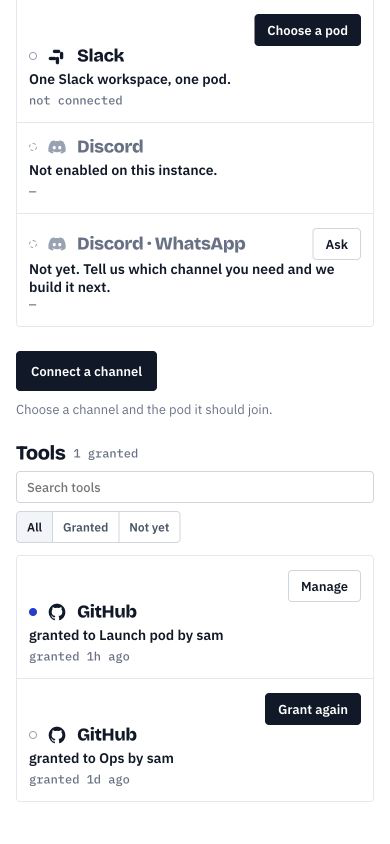
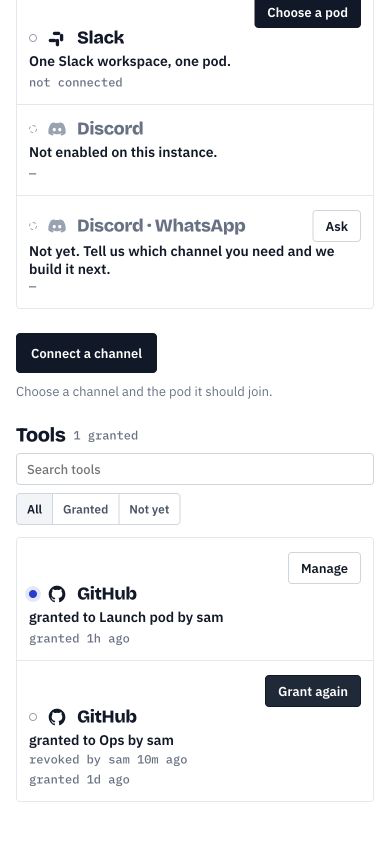
fix(v2): show revoked state on mobile rows

diff --git a/frontend/src/v2/v2.css b/frontend/src/v2/v2.css
@@ -9829,7 +9829,7 @@ body.modern-ui.v2-canvas {
   .v2-connector-row--not-yet .v2-connector-row__name { grid-column: 1; grid-row: 1; }
   .v2-connector-row--not-yet .v2-connector-row__details { grid-column: 1 / -1; grid-row: 2; }
   .v2-connector-row--not-yet .v2-connector-row__when { grid-column: 1 / -1; grid-row: 3; padding-right: 0; }
-  .v2-connector-row__detail { display: none; }
+  .v2-connector-row:not(.v2-connector-row--dead) .v2-connector-row__detail { display: none; }
   .v2-root button.v2-connector-row__action, .v2-root a.v2-connector-row__action { grid-column: 2; grid-row: 1; z-index: 1; }
   .v2-connectors__new-row { grid-template-columns: minmax(0, 1fr); }
   .v2-connectors__providers { width: fit-content; }

diff --git a/frontend/src/v2/__tests__/v2-layout-invariants.test.ts b/frontend/src/v2/__tests__/v2-layout-invariants.test.ts
@@ -1773,6 +1773,7 @@ describe('v2 layout invariants (CSS rule presence)', () => {
     expect(connectorCss).toMatch(/@media \(max-width: 760px\) \{[\s\S]*?\.v2-connectors \{ min-height: 0; gap: 24px; margin: -12px -18px 0;/);
     expect(connectorCss).toMatch(/\.v2-root button\.v2-connector-row__selection \{ grid-column: 1 \/ -1;/);
     expect(connectorCss).toMatch(/\.v2-root button\.v2-connector-row__selection \.v2-connector-row__details \{ grid-column: 1 \/ -1; grid-row: 2;/);
+    expect(connectorCss).toMatch(/\.v2-connector-row:not\(.v2-connector-row--dead\) \.v2-connector-row__detail \{ display: none; \}/);
   });
 
   describe('TASK-122 Phase A — the ruled restyle (Sam, 2026-09-03; spec on TASK-122)', () => {

diff --git a/frontend/src/v2/__tests__/V2ConnectorTools.test.tsx b/frontend/src/v2/__tests__/V2ConnectorTools.test.tsx
@@ -92,6 +92,7 @@ test('rows carry the states table: a live grant pulses when used in the last 10 
   await waitFor(() => expect(liveDot).toHaveClass('v2-connector-row__dot--pulse'));
   const gone = screen.getByRole('button', { name: 'View GitHub in Ops' });
   expect(within(gone).getByText('revoked by sam 10m ago')).toBeInTheDocument();
+  expect(gone.closest('.v2-connector-row')).toHaveClass('v2-connector-row--dead');
   expect(gone.querySelector('.v2-connector-row__dot')).toHaveClass('v2-connector-row__dot--empty');
   // No not-yet row and no Add without a catalogue: nothing the server does not enforce.
   expect(screen.queryByText('not granted')).not.toBeInTheDocument();

diff --git a/frontend/src/v2/components/V2ConnectorTools.tsx b/frontend/src/v2/components/V2ConnectorTools.tsx
@@ -378,7 +378,7 @@ const V2ConnectorTools: React.FC<Props> = ({ pods }) => {
         : t('tools.expiredLine', { defaultValue: 'expired {{rel}}', rel: relativeTime(grant.expiresAt) }))
       : `${audienceLabels(grant)} ${t('tools.mayUse', { defaultValue: 'may use it' })} · ${asksFirst(grant)}`;
     return (
-      <article key={grant.grantId} className={`v2-connector-row${isSelected ? ' v2-connector-row--selected' : ''}`}>
+      <article key={grant.grantId} className={`v2-connector-row${isSelected ? ' v2-connector-row--selected' : ''}${dead ? ' v2-connector-row--dead' : ''}`}>
         <button
           type="button"
           className="v2-connector-row__selection"
